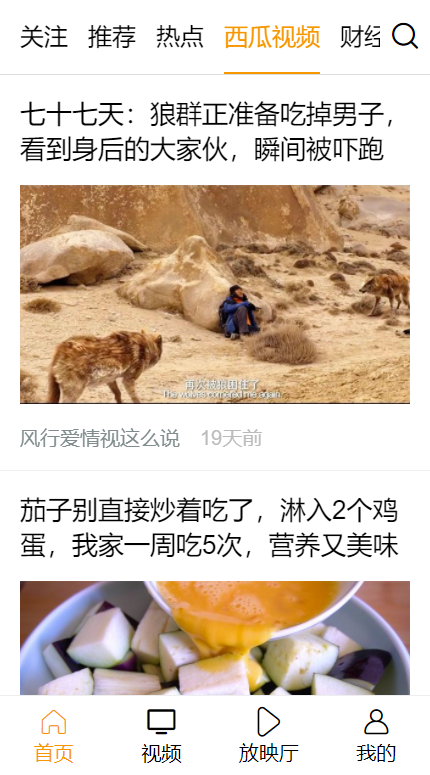
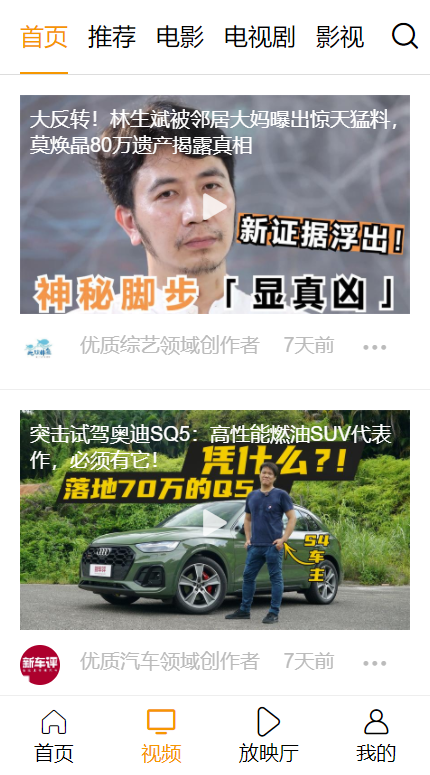
修改文章详情和视频列表问题

diff --git a/src/views/Home.vue b/src/views/Home.vue
@@ -56,24 +56,27 @@
                         <div class="loading-box" v-if="!videoState.isInit"></div>
                         <ul class="articles">
                             <li v-for="item,index in videoState.list" class="article-item" :key="'video-item'+index">
-                                <div class="author-wrapper">
-                                    <img class="avater" :src="item.authorInfo.avatarUrl"/>
-                                    <div class="video-title-wrapper">
-                                        <div class="sub-title">{{item.authorInfo.authorDesc}}</div>
-                                    </div>
-                                </div>
+
                                 <div class="video-img-wrapper">
                                     <div class="main-title">{{item.title}}</div>
                                     <img :src="item.img" class="video-img">
                                     <i class="iconfont iconfont-play"></i>
                                 </div>
-                                <div class="video-footer">
-                                    <i class="icon-video-footer iconfont iconfont-like"></i>
-                                    <i class="icon-video-footer iconfont iconfont-comment"></i>
-                                    <i class="icon-video-footer iconfont iconfont-collection"></i>
-                                    <i class="icon-video-footer iconfont iconfont-views"></i>
-                                    <span class="video-time">{{fomatTime(item.publishTime)}}</span>
+                                <div class="author-wrapper">
+                                    <img class="avater" :src="item.authorInfo.avatarUrl"/>
+                                    <div class="video-title-wrapper">
+                                        <div class="sub-title">{{item.authorInfo.authorDesc}}</div>
+                                        <span class="video-time">{{fomatTime(item.publishTime)}}</span>
+                                        <span class="iconfont iconfont-more"></span>
+                                    </div>
                                 </div>
+<!--                                <div class="video-footer">-->
+<!--                                    <i class="icon-video-footer iconfont iconfont-like"></i>-->
+<!--                                    <i class="icon-video-footer iconfont iconfont-comment"></i>-->
+<!--                                    <i class="icon-video-footer iconfont iconfont-collection"></i>-->
+<!--                                    <i class="icon-video-footer iconfont iconfont-views"></i>-->
+<!--                                    <span class="video-time">{{fomatTime(item.publishTime)}}</span>-->
+<!--                                </div>-->
                             </li>
                         </ul>
                         <template v-if="videoState.list.length>0">
@@ -155,7 +158,7 @@
                 }
             },
         },
-        async setup() {
+        setup() {
             let bottomTabIndex = ref(0)
             const articleEffect = useArticleEffect()
             const videoEffect = useVideoEffect();
@@ -173,7 +176,7 @@
                 }else if(index == 2 && !movieEffect.movieState.isInit){
                     movieEffect.useInitMovieEffect()
                 }
-            }
+            };
 
             articleEffect.useInitArticleEffect()
 
@@ -197,7 +200,7 @@
             overflow: hidden;
             display: flex;
             flex: 1;
-            margin-left: 0.5rem;
+            margin-left: @small-margin;
             position: relative;
             &.img-container-video{
                 max-width: 100%;
@@ -206,8 +209,8 @@
             }
             .duration{
                 position: absolute;
-                bottom: 0.5rem;
-                right: 0.5rem;
+                bottom: @small-margin;
+                right: @small-margin;
                 color: #fff;
                 z-index: 1;
                 font-size: 0.8rem;
@@ -284,14 +287,14 @@
                     .movie-wrapper{
                         display: flex;
                         flex-wrap: wrap;
-                        padding: 1rem;
+                        padding: @big-margin;
                         .movie-item{
-                            width: calc(50% - 0.5rem);
-                            margin-bottom: 1rem;
+                            width: calc(50% - @small-margin);
+                            margin-bottom: @big-margin;
                             display: flex;
                             flex-direction: column;
                             &:nth-child(even){
-                                margin-left: 1rem;
+                                margin-left: @big-margin;
                             }
                             .movie-img-wrapper{
                                 flex: 1;
@@ -333,7 +336,7 @@
                     .nav-list{
                         display: flex;
                         float: left;
-                        padding: 1rem 1rem 0 1rem;
+                        padding: @big-margin @big-margin 0 @big-margin;
                         font-size: 1.2rem;
                         white-space: nowrap;
                         &::-webkit-scrollbar{
@@ -341,8 +344,8 @@
                         }
                         .nav-item{
                             list-style: none;
-                            margin:0 0.5rem;
-                            padding-bottom: 1rem;
+                            margin:0 @small-margin;
+                            padding-bottom: @big-margin;
                             moz-user-select: -moz-none;
                             -moz-user-select: none;
                             -o-user-select:none;
@@ -371,11 +374,12 @@
                 display: flex;
                 flex-direction: column;
                 .article-item{
-                    padding: 1rem;
+                    padding: @big-margin;
                     border-bottom: 1px solid @border-color;
                     .author-wrapper{
                         display: flex;
-                        padding-bottom: 1rem;
+                        margin-top: @small-margin;
+                        align-items: center;
                         .avater{
                             width: 2rem;
                             height: 2rem;
@@ -383,16 +387,23 @@
                         }
                         .video-title-wrapper{
                             flex: 1;
-                            margin-left: 1rem;
+                            margin-left: @big-margin;
                             max-width: calc(100% - 4rem);
+                            display: flex;
+                            justify-content: space-between;
                             .sub-title{
                                 color:@color-icon;
                                 font-size: @article-footer-font-size;
                                 overflow: hidden;
                                 text-overflow: ellipsis;
                                 white-space: nowrap;
-                                padding-bottom: 0.5rem;
-                                width: 100%;
+                                padding-bottom: @small-margin;
+                            }
+                            .video-time{
+                                color: @color-icon;
+                            }
+                            .iconfont-more{
+                                color: @color-icon;
                             }
                         }
                     }
@@ -404,8 +415,8 @@
                         .main-title{
                             width: 100%;
                             position: absolute;
-                            top:0.5rem;
-                            left: 0.5rem;
+                            top:@small-margin;
+                            left: @small-margin;
                             color: #fff;
                         }
                         .iconfont-play{
@@ -423,10 +434,10 @@
                         }
                     }
                     .video-footer{
-                        padding-top: 1rem;
+                        padding-top: @big-margin;
                         .icon-video-footer{
                             font-size: 1.4rem;
-                            margin-left: 1rem;
+                            margin-left: @big-margin;
                             &:first-child{
                                 margin-left: 0;
                             }
@@ -448,24 +459,24 @@
                             flex: 1;
                         }
                         .single-img{
-                            margin-left: 0.5rem;
+                            margin-left: @small-margin;
                             overflow: hidden;
                             width: 25%;
                         }
                     }
                     .img-wrapper{
                         display: flex;
-                        padding-top: 1rem;
+                        padding-top: @big-margin;
                     }
                     .footer-wrapper{
                         font-size: @article-footer-font-size;
                         color: @article-footer-color;
                         flex-direction: row;
                         display: flex;
-                        padding-top: 1rem;
+                        padding-top: @big-margin;
                         align-items: center;
                         .footer-item{
-                            margin-left: 1rem;
+                            margin-left: @big-margin;
                             &:first-child{
                                 margin-left: 0;
                             }
@@ -490,7 +501,7 @@
         #footer-tab-wrapper{
             display: flex;
             border-top: 1px solid @border-color;
-            padding: 0.5rem 0;
+            padding: @small-margin 0;
             .footer-tab-item{
                 display: flex;
                 flex: 1;

diff --git a/src/views/ArticleDetail.vue b/src/views/ArticleDetail.vue
@@ -3,13 +3,12 @@
         <div id="article-wrapper">
             <div id="article-title">{{articleDetail.title}}</div>
             <div id="article-meta">
-                <div id="article-author">
-                    <img id="author-avater" v-if="articleDetail.userInfo && articleDetail.userInfo.avatarUrl" :src="articleDetail.userInfo.avatarUrl"/>
-                    <div id="article-user-wrapper">
-                        <div id="acticle-user">{{articleDetail.userInfo && articleDetail.userInfo.name ? articleDetail.userInfo.name: articleDetail.userId}}</div>
-                        <div>{{fomatTime(articleDetail.createTime)}}</div>
-                    </div>
+                <div id="article-userInfo">
+                    <img id="article-avater" v-if="articleDetail.authorInfo && articleDetail.authorInfo.avatarUrl" :src="articleDetail.authorInfo.avatarUrl"/>
+                    <div id="acticle-user">{{articleDetail.authorInfo && articleDetail.authorInfo.name ? articleDetail.authorInfo.name: articleDetail.authorId}}</div>
+                    <div v-if="articleDetail.createTime">{{fomatTime(articleDetail.createTime)}}</div>
                 </div>
+                <div id="button-focus">关注</div>
             </div>
             <article id="article-text" v-html="articleDetail.content"></article>
         </div>
@@ -18,18 +17,18 @@
 </template>
 
 <script>
-    import {defineComponent} from 'vue';
+    import {defineComponent,toRefs} from 'vue';
     import useArticleDetailEffect from "../hooks/useArticleDetailEffect";
     import {fomatTime} from "../utils";
     export default defineComponent({
         name: 'ArticleDetail',
         setup() {
-            const {articleDetail,useInitArticleDetailEffect} = useArticleDetailEffect();
+            const {articleDetailState,useInitArticleDetailEffect} = useArticleDetailEffect();
 
             useInitArticleDetailEffect()
 
             return {
-                articleDetail,
+                ...toRefs(articleDetailState),
                 fomatTime
             }
         }
@@ -58,22 +57,27 @@
             #article-meta{
                 color: @article-footer-color;
                 font-size: @article-footer-font-size;
-                padding-bottom: 1rem;
+                padding-bottom: @small-margin;
                 display: flex;
                 align-items: center;
-                #article-author{
+                #article-userInfo{
                     flex: 1;
                     display: flex;
                     align-items: center;
-                    #author-avater{
-                        width: 3rem;
-                        height: 3rem;
+                    #acticle-user{
+                        margin:0 @small-margin;
+                    }
+                    #article-avater{
+                        width: 2rem;
+                        height: 2rem;
                         border-radius: 50%;
-                        margin-right: 1rem;
                     }
-                    #article-user-wrapper{
-                        flex: 1;
-                    }
+                }
+                #button-focus{
+                    border:1px solid @border-color;
+                    border-radius: @border-raduis;
+                    padding:0.3rem @small-margin;
+                    color: @article-footer-color;
                 }
             }
         }

diff --git a/src/service/articleDetailService.ts b/src/service/articleDetailService.ts
@@ -1,6 +1,7 @@
-import axios from "axios";
+import axios, {AxiosResponse} from "axios";
 import api from "@/api";
+import {ArticleInterface} from "@/types";
 
 export const getArticleService = async (id:number) => {
-    return axios.get(`${api.getArticleDetail}/${id}`);
+    return axios.get(`${api.getArticleDetail}/${id}`).then((res:AxiosResponse<ArticleInterface>)=>res.data);
 }

diff --git a/src/hooks/useArticleDetailEffect.ts b/src/hooks/useArticleDetailEffect.ts
@@ -18,6 +18,6 @@ export default ()=> {
     
     return {
         useInitArticleDetailEffect,
-        ...toRefs(articleDetailState)
+        articleDetailState
     }
 }

diff --git a/src/App.vue b/src/App.vue
@@ -1,8 +1,6 @@
 <template>
     <keep-alive>
-        <Suspense>
-            <router-view/>
-        </Suspense>
+        <router-view/>
     </keep-alive>
 </template>
 

diff --git a/src/common/style/variable.less b/src/common/style/variable.less
@@ -6,3 +6,6 @@
 @article-footer-font-size:1rem;
 @article-footer-color:#bbb;
 @border-color:#eee;
+@small-margin: 0.5rem;
+@big-margin:1rem;
+@border-raduis:0.3rem;

diff --git a/src/common/style/iconfont.css b/src/common/style/iconfont.css
@@ -60,3 +60,7 @@
 .iconfont-views:before {
   content: "\e68c";
 }
+
+.iconfont-more:before {
+  content: "\e639";
+}

diff --git a/README.md b/README.md
@@ -7,6 +7,7 @@
 ![手机端预览效果图3](./%E7%95%8C%E9%9D%A2%E9%A2%84%E8%A7%883.png)
 ![手机端预览效果图4](./%E7%95%8C%E9%9D%A2%E9%A2%84%E8%A7%884.png)
 ![手机端预览效果图5](./%E7%95%8C%E9%9D%A2%E9%A2%84%E8%A7%885.png)
+![手机端预览效果图5](./%E7%95%8C%E9%9D%A2%E9%A2%84%E8%A7%886.png)
 ================================界面预览================================
 
 
